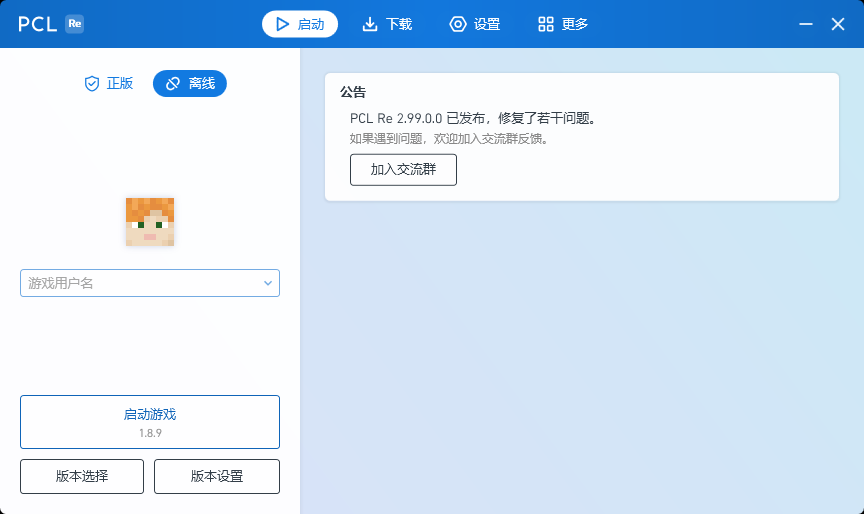
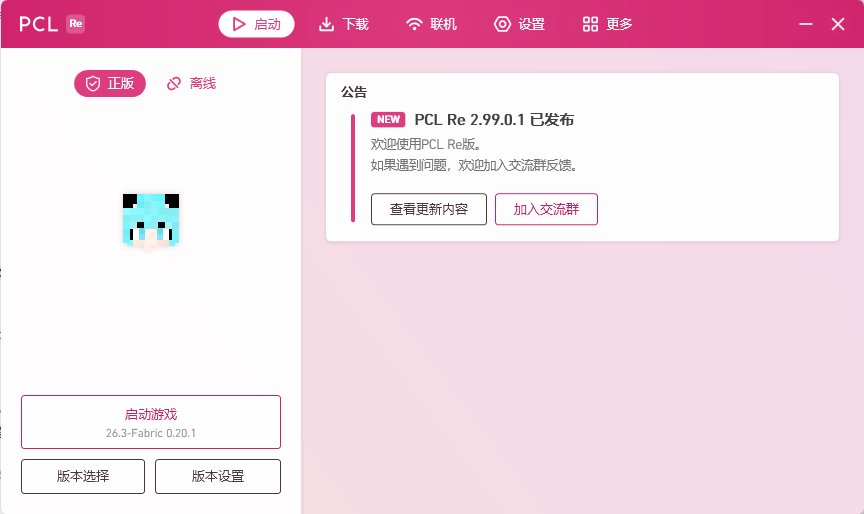
Refresh launcher screenshots

diff --git a/index.html b/index.html
@@ -66,11 +66,11 @@
             <div class="preview-topline"><span><span class="status-dot"></span> 熟悉的简洁，全新的出发</span><span class="mono">PCL RE / 01</span></div>
             <div class="preview-stage">
               <span class="stage-plus plus-one" aria-hidden="true">+</span><span class="stage-plus plus-two" aria-hidden="true">+</span>
-              <div class="screenshot-shell" id="launcher-preview" role="tabpanel" aria-labelledby="preview-tab-home"><img id="preview-image" src="./assets/pcl-launch-home.png" width="864" height="514" fetchpriority="high" alt="PCL Re 启动主页：游戏登录、启动游戏、版本选择和版本设置" /></div>
+              <div class="screenshot-shell" id="launcher-preview" role="tabpanel" aria-labelledby="preview-tab-home"><img id="preview-image" src="./assets/pcl-launch-home.png" width="864" height="514" fetchpriority="high" alt="PCL Re 启动主页：玩家名已遮挡，展示启动游戏、当前游戏版本、公告和版本设置" /></div>
               <span class="preview-caption" id="preview-caption" aria-live="polite">每一场冒险，从一次启动开始。</span>
               <span class="preview-watermark mono" aria-hidden="true">READY TO PLAY.</span>
             </div>
-            <div class="preview-bottomline"><div class="preview-tabs" role="tablist" aria-label="切换启动器真实界面"><button id="preview-tab-home" class="preview-tab is-active" role="tab" type="button" aria-selected="true" aria-controls="launcher-preview" data-preview="home">启动</button><button id="preview-tab-versions" class="preview-tab" role="tab" type="button" aria-selected="false" aria-controls="launcher-preview" tabindex="-1" data-preview="versions">版本</button><button id="preview-tab-online" class="preview-tab" role="tab" type="button" aria-selected="false" aria-controls="launcher-preview" tabindex="-1" data-preview="online">联机</button></div><span class="real-preview-label">来自启动器的真实界面 <span aria-hidden="true">↗</span></span></div>
+            <div class="preview-bottomline"><div class="preview-tabs" role="tablist" aria-label="切换启动器真实界面"><button id="preview-tab-home" class="preview-tab is-active" role="tab" type="button" aria-selected="true" aria-controls="launcher-preview" data-preview="home">启动</button><button id="preview-tab-versions" class="preview-tab" role="tab" type="button" aria-selected="false" aria-controls="launcher-preview" tabindex="-1" data-preview="versions">下载</button><button id="preview-tab-online" class="preview-tab" role="tab" type="button" aria-selected="false" aria-controls="launcher-preview" tabindex="-1" data-preview="online">联机</button></div><span class="real-preview-label">来自启动器的真实界面 <span aria-hidden="true">↗</span></span></div>
           </div>
         </section>
       </div>
@@ -80,7 +80,7 @@
       <section class="features container section" id="features" aria-labelledby="features-title">
         <div class="section-heading"><div><p class="section-kicker"><span>01 /</span> PLAY IT YOUR WAY</p><h2 id="features-title">少一点准备，<span>多一点好玩。</span></h2></div><p>原版的纯粹，模组的丰富，光影的惊艳。<br />你喜欢的玩法，都有一个顺手的开始。</p></div>
         <div class="feature-grid">
-          <article class="feature-card feature-versions"><div class="card-topline"><span class="card-icon"><svg class="icon" aria-hidden="true"><use href="#i-download" /></svg></span><span class="mono">01 / GAME VERSIONS</span></div><h3>想玩的版本，<br />随时出发。</h3><p>浏览、下载 Minecraft 游戏版本，安装 Forge、NeoForge 或 Fabric。在版本管理里切换你的下一站。</p><div class="version-art" aria-hidden="true"><div class="version-row"><span class="version-cube"><svg class="icon"><use href="#i-cube" /></svg></span><div><strong>Minecraft</strong><small>原版世界，准备就绪</small></div><span class="version-check">✓</span></div><div class="loader-tags"><span>Forge</span><span>NeoForge</span><span>Fabric</span></div></div><a class="card-bottom" href="#overview" data-show-preview="versions">查看版本管理界面 <svg class="icon" aria-hidden="true"><use href="#i-arrow" /></svg></a></article>
+          <article class="feature-card feature-versions"><div class="card-topline"><span class="card-icon"><svg class="icon" aria-hidden="true"><use href="#i-download" /></svg></span><span class="mono">01 / GAME VERSIONS</span></div><h3>想玩的版本，<br />随时出发。</h3><p>浏览、下载 Minecraft 游戏版本，安装 Forge、NeoForge 或 Fabric。在版本管理里切换你的下一站。</p><div class="version-art" aria-hidden="true"><div class="version-row"><span class="version-cube"><svg class="icon"><use href="#i-cube" /></svg></span><div><strong>Minecraft</strong><small>原版世界，准备就绪</small></div><span class="version-check">✓</span></div><div class="loader-tags"><span>Forge</span><span>NeoForge</span><span>Fabric</span></div></div><a class="card-bottom" href="#overview" data-show-preview="versions">查看游戏版本下载界面 <svg class="icon" aria-hidden="true"><use href="#i-arrow" /></svg></a></article>
           <article class="feature-card feature-mods"><div class="card-topline"><span class="card-icon"><svg class="icon" aria-hidden="true"><use href="#i-mod" /></svg></span><span class="mono">02 / MODS & SHADERS</span></div><h3>给熟悉的世界，<br />加一点新意。</h3><p>搜索、下载和管理 Mod 与光影，也能发现资源包与数据包。新的玩法、新的风景，由你搭配。</p><div class="mods-art" aria-hidden="true"><span class="resource-tile tile-mod"><svg class="icon"><use href="#i-mod" /></svg><small>MOD</small></span><span class="resource-tile tile-shader"><svg class="icon"><use href="#i-sun" /></svg><small>SHADER</small></span><span class="resource-tile tile-pack"><svg class="icon"><use href="#i-layers" /></svg><small>RESOURCE</small></span><span class="art-plus">+</span></div><span class="card-bottom">Mod · 光影包 · 资源包 · 数据包 <svg class="icon" aria-hidden="true"><use href="#i-check" /></svg></span></article>
           <article class="feature-card feature-packs"><div class="card-topline"><span class="card-icon"><svg class="icon" aria-hidden="true"><use href="#i-layers" /></svg></span><span class="mono">03 / MODPACKS</span></div><h3>一整个新世界，<br />一起装进口袋。</h3><p>下载、导入与管理整合包，从现成的搭配开始冒险。轻松切换不同的游戏实例，把喜欢的世界留在身边。</p><div class="packs-art" aria-hidden="true"><span class="pack-sheet sheet-back"></span><span class="pack-sheet sheet-middle"></span><span class="pack-sheet sheet-front"><svg class="icon"><use href="#i-cube" /></svg><span>YOUR NEXT WORLD</span><small>READY TO EXPLORE</small></span><span class="pack-spark">✧</span></div><span class="card-bottom">在线下载，也支持本地导入 <svg class="icon" aria-hidden="true"><use href="#i-check" /></svg></span></article>
         </div>

diff --git a/script.js b/script.js
@@ -1,13 +1,13 @@
 const previews = Object.freeze({
   home: {
     src: './assets/pcl-launch-home.png',
-    alt: 'PCL Re 启动主页：游戏登录、启动游戏、版本选择和版本设置',
+    alt: 'PCL Re 启动主页：玩家名已遮挡，展示启动游戏、当前游戏版本、公告和版本设置',
     caption: '每一场冒险，从一次启动开始。',
   },
   versions: {
     src: './assets/pcl-launch-versions.png',
-    alt: 'PCL Re 版本管理页面，展示游戏版本列表与管理入口',
-    caption: '熟悉的版本，新鲜的冒险。',
+    alt: 'PCL Re 游戏下载页面：加载后展示 Minecraft 最新正式版 26.3 和预览版 26.4-snapshot-6',
+    caption: '游戏版本与社区资源，加载就绪。',
   },
   online: {
     src: './assets/pcl-launch-online.png',
